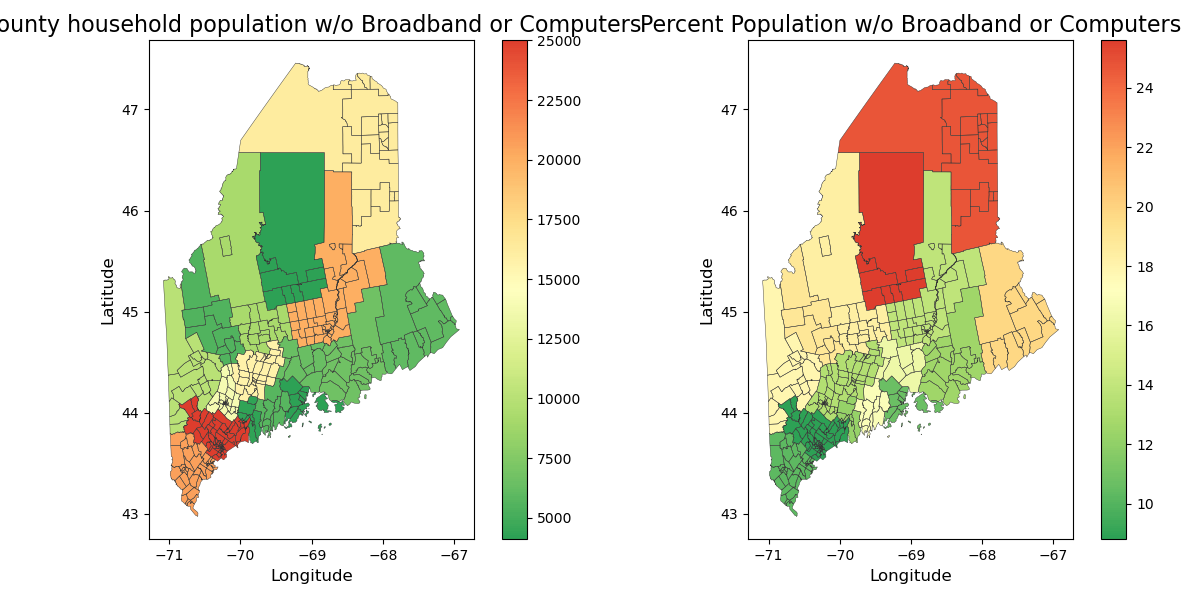
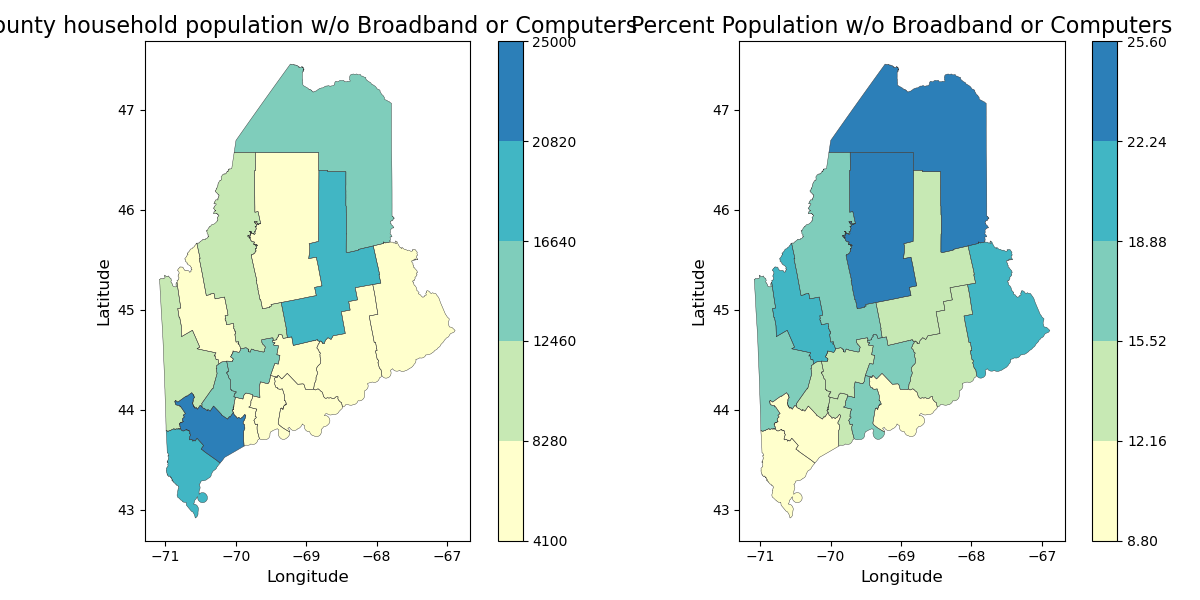
The real color changes to plot scripts and png files

diff --git a/src/make_plots.py b/src/make_plots.py
@@ -3,8 +3,7 @@ import geopandas as gpd
 import matplotlib as mpl
 import matplotlib.pyplot as plt
 import pandas as pd
-import numpy as np
-import matplotlib.colors as colors
+import assign_colors
 
 # List of lists of plot column names, titles and fig filenames, 2 pairs of column name / title and one filename.
 plot_list = [
@@ -23,25 +22,46 @@ plot_list = [
 
 def make_plot(gpd_obj, plot_obj):
     # Plotting combined data 
-    cmap = mpl.cm.RdYlGn_r
-    lighter = colors.ListedColormap(cmap(np.linspace(0.125, 0.875, 256)))    
-    fig, ax = plt.subplots(nrows=1, ncols=2, figsize=(12, 6))
-
+    
     # Convert the data in the column with these indices to numeric, fill missing values in columns with 0's
     indices_to_convert = [0, 2]
     for index in indices_to_convert:
         gpd_obj[plot_obj[index]] = pd.to_numeric(gpd_obj[plot_obj[index]], errors='coerce')
         gpd_obj[plot_obj[index]] = gpd_obj[plot_obj[index]].fillna(0)  # Data cleaning
     
+    inner_list = assign_colors.colors[0]
+    color_list = inner_list[:5]
+
+    # Calculate the range for each color
+    min_val = gpd_obj[plot_obj[0]].min()
+    max_val = gpd_obj[plot_obj[0]].max()
+    min_val2 = gpd_obj[plot_obj[2]].min()
+    max_val2 = gpd_obj[plot_obj[2]].max()
+    interval = (max_val - min_val) / len(color_list)
+    interval2 = (max_val2 - min_val2) / len(color_list)
+
+    # Define color bins based on the range and color_list
+    color_bins_pop = [min_val + i * interval for i in range(len(color_list))]
+    color_bins_pop.append(max_val)  # Include the maximum value
+    color_bins_pct = [min_val2 + i * interval2 for i in range(len(color_list))]
+    color_bins_pct.append(max_val2)  # Include the maximum value
+
+    # Plotting combined data
+    cmap_pop = mpl.colors.ListedColormap(color_list)
+    norm_pop = mpl.colors.BoundaryNorm(color_bins_pop, cmap_pop.N)
+    cmap_pct = mpl.colors.ListedColormap(color_list)
+    norm_pct = mpl.colors.BoundaryNorm(color_bins_pct, cmap_pct.N)
+    fig, ax = plt.subplots(nrows=1, ncols=2, figsize=(12, 6))
+
     # Left side of fig plot details
-    gpd_obj.plot(column=plot_obj[0], cmap=lighter, legend=True, figsize=(8,8), ax=ax[0])
+    gpd_obj.plot(column=plot_obj[0], cmap=cmap_pop, norm=norm_pop, legend=True, figsize=(8,8), ax=ax[0])
     gpd_obj.boundary.plot(ax=ax[0], linewidth=0.3, edgecolor='#333')
     ax[0].set_title(plot_obj[1], fontsize=16)
     ax[0].set_xlabel('Longitude', fontsize=12)
     ax[0].set_ylabel('Latitude', fontsize=12)
     
     # Right side of fig plot details
-    gpd_obj.plot(column=plot_obj[2], cmap=lighter, legend=True, figsize=(8,8), ax=ax[1])
+    gpd_obj.plot(column=plot_obj[2], cmap=cmap_pct, norm=norm_pct, legend=True, figsize=(8,8), ax=ax[1])
     gpd_obj.boundary.plot(ax=ax[1], linewidth=0.3, edgecolor='#333')
     ax[1].set_title(plot_obj[3], fontsize=16)
     ax[1].set_xlabel('Longitude', fontsize=12)
@@ -56,7 +76,7 @@ def make_plot(gpd_obj, plot_obj):
     fig.savefig(f'{figs_dir}/{plot_filename}.png')
 
 # Read geojson file into a geopandas object
-gpd_obj = gpd.read_file('docs/data.json')
+gpd_obj = gpd.read_file('/home/darbvt/broadband-4/docs/tracts.json')
 
 # Iterate through plot lists and call make_plot to create pngs and save each
 for plot_obj in plot_list:

diff --git a/src/make_county_plots.py b/src/make_county_plots.py
@@ -3,8 +3,7 @@ import geopandas as gpd
 import matplotlib as mpl
 import matplotlib.pyplot as plt
 import pandas as pd
-import numpy as np
-import matplotlib.colors as colors
+import assign_colors
 
 # List of lists of plot column names, titles and fig filenames, 2 pairs of column name / title and one filename.
 plot_list = [
@@ -24,25 +23,46 @@ plot_list = [
 
 def make_plot(gpd_obj, plot_obj):
     # Plotting combined data 
-    cmap = mpl.cm.RdYlGn_r
-    lighter = colors.ListedColormap(cmap(np.linspace(0.125, 0.875, 256)))    
-    fig, ax = plt.subplots(nrows=1, ncols=2, figsize=(12, 6))
-
+    
     # Convert the data in the column with these indices to numeric, fill missing values in columns with 0's
     indices_to_convert = [0, 2]
     for index in indices_to_convert:
         gpd_obj[plot_obj[index]] = pd.to_numeric(gpd_obj[plot_obj[index]], errors='coerce')
         gpd_obj[plot_obj[index]] = gpd_obj[plot_obj[index]].fillna(0)  # Data cleaning
     
+    inner_list = assign_colors.colors[0]
+    color_list = inner_list[:5]
+
+    # Calculate the range for each color
+    min_val = gpd_obj[plot_obj[0]].min()
+    max_val = gpd_obj[plot_obj[0]].max()
+    min_val2 = gpd_obj[plot_obj[2]].min()
+    max_val2 = gpd_obj[plot_obj[2]].max()
+    interval = (max_val - min_val) / len(color_list)
+    interval2 = (max_val2 - min_val2) / len(color_list)
+
+    # Define color bins based on the range and color_list
+    color_bins_pop = [min_val + i * interval for i in range(len(color_list))]
+    color_bins_pop.append(max_val)  # Include the maximum value
+    color_bins_pct = [min_val2 + i * interval2 for i in range(len(color_list))]
+    color_bins_pct.append(max_val2)  # Include the maximum value
+
+    # Plotting combined data
+    cmap_pop = mpl.colors.ListedColormap(color_list)
+    norm_pop = mpl.colors.BoundaryNorm(color_bins_pop, cmap_pop.N)
+    cmap_pct = mpl.colors.ListedColormap(color_list)
+    norm_pct = mpl.colors.BoundaryNorm(color_bins_pct, cmap_pct.N)
+    fig, ax = plt.subplots(nrows=1, ncols=2, figsize=(12, 6))
+
     # Left side of fig plot details
-    gpd_obj.plot(column=plot_obj[0], cmap=lighter, legend=True, figsize=(8,8), ax=ax[0])
+    gpd_obj.plot(column=plot_obj[0], cmap=cmap_pop, norm=norm_pop, legend=True, figsize=(8,8), ax=ax[0])
     gpd_obj.boundary.plot(ax=ax[0], linewidth=0.3, edgecolor='#333')
     ax[0].set_title(plot_obj[1], fontsize=16)
     ax[0].set_xlabel('Longitude', fontsize=12)
     ax[0].set_ylabel('Latitude', fontsize=12)
     
     # Right side of fig plot details
-    gpd_obj.plot(column=plot_obj[2], cmap=lighter, legend=True, figsize=(8,8), ax=ax[1])
+    gpd_obj.plot(column=plot_obj[2], cmap=cmap_pct, norm=norm_pct, legend=True, figsize=(8,8), ax=ax[1])
     gpd_obj.boundary.plot(ax=ax[1], linewidth=0.3, edgecolor='#333')
     ax[1].set_title(plot_obj[3], fontsize=16)
     ax[1].set_xlabel('Longitude', fontsize=12)
@@ -57,7 +77,7 @@ def make_plot(gpd_obj, plot_obj):
     fig.savefig(f'{figs_dir}/{plot_filename}.png')
 
 # Read geojson file into a geopandas object
-gpd_obj = gpd.read_file('docs/data_county.json')
+gpd_obj = gpd.read_file('docs/counties.json')
 
 # Iterate through plot lists and call make_plot to create pngs and save each
 for plot_obj in plot_list:
